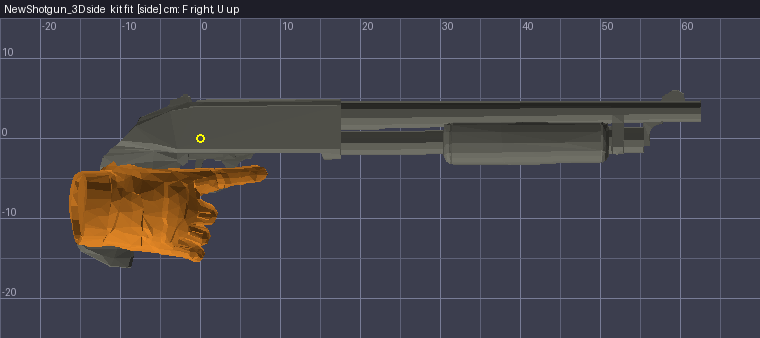
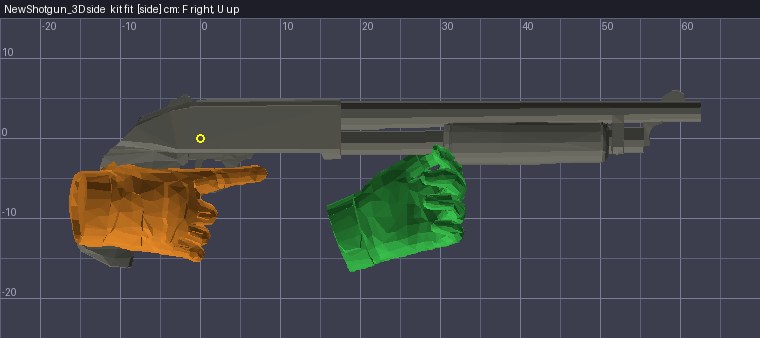
Grip-centred enclosure check, and why these fits are NOT baked
tools/fit_hands.py now fits both hands with the kit's own branches and checks each pose the
way the kit says a doubtful grip is checked -- the cross-section, "the part must sit inside the
hand's curl". support.section() gives the gun's outline at a plane; the hand is sliced at the
same plane and, from the GRIP, eight bearings are tested for hand within 6 cm. 8/8 is a closed
grip; a flat palm laid on top scores about 4, which is the failure the owner caught on the
minigun.

My first version of that check measured the wrong thing and is recorded in the file: it sliced
at F = the fit's SHIFT, which is a translation and not a place, and centred on the whole
cross-section of the receiver -- so it asked whether the hand surrounded the middle of the gun.
Centred on the grip the fit was actually matched against:

    M4A3Pistol_3D   gun hand [-2.93,  0.00, -4.14]  resid 0.50   5/8 at grip F -4.7 L  0.0
    NewShotgun_3D   gun hand [ 0.03,  0.06, -3.97]  resid 0.90   7/8 at grip F -5.0
    PulseRifle_3D   gun hand [ 0.30,  0.42, -2.45]  resid 1.42   7/8 at grip F -4.7
    Smartgun_3D     gun hand [10.03,  8.98,  1.43]  resid 1.41   6/8 at grip F +6.1 L +10.3

Two independent routes agree on the smartgun: the kit's grip box puts its vertical grip at
L +10.3, md3label's grip line at L +11.0.

THE SUPPORT FITS ARE WHAT IS ALREADY SHIPPED. The kit's wrap branch returns the shotgun
[+2.75, -0.09, -2.99] and the pulse rifle [-10.67, -0.09, -10.80] -- the same numbers 93eaf4d
[…]

Changed region(s): [[0.4237, 0.4142, 0.6355, 0.7988]]

diff --git a/tools/fit_hands.py b/tools/fit_hands.py
@@ -50,11 +50,8 @@ guns = _load('guns', KIT + '/tool/hands/guns.py')
 # the pack on ours alone never reached align.fit() -- it looked our classes up in BD22's
 # registry, got None, and died subscripting it. Point them at the one that knows this pack.
 align.guns = guns
-try:
-    import support as _sup
-    _sup.guns = guns
-except Exception:
-    pass
+import support
+support.guns = guns
 
 ROOT = os.path.abspath(os.path.join(os.path.dirname(__file__), '..')).replace('\\', '/')
 
@@ -87,49 +84,112 @@ BOX = {
 }
 
 
+def enclosure(cls, it, hand_items, f, grip, lmax=9.0):
+    """Is the gun INSIDE the hand's curl at the plane F = f?
+
+    The kit's check for a doubtful grip is the cross-section: "the part must sit inside the
+    hand's curl" (HAND_FITTING, and the melee fits' xsec sheets). support.section() already
+    gives the gun's outline at a plane; this slices the hand at the same plane and asks, from
+    the gun's centre, how many of eight bearings have hand within 6 cm. 8/8 is a closed fist
+    round the part; a flat palm laid on top scores about half, which is the failure the owner
+    caught on the minigun.
+    """
+    # `gc` MUST be the grip, not the gun. First version sliced at F = the fit's SHIFT (a
+    # translation, not a place) and centred on the whole cross-section, so it was asking
+    # whether the hand surrounded the middle of the receiver. The caller now passes the grip
+    # point the fit was matched against -- the centroid of align.box over the grip region.
+    g = support.section(cls, f)
+    if not len(g):
+        return None, None
+    gc = np.array(grip[1:], float)
+    H = []
+    for h in hand_items:
+        for a, b, c3, _ in gunview.triangles([h]):
+            a, b, c3 = np.atleast_2d(a), np.atleast_2d(b), np.atleast_2d(c3)
+            for p, q in ((a, b), (b, c3), (c3, a)):
+                s = (p[:, 0] - f) * (q[:, 0] - f)
+                m = s < 0
+                if m.any():
+                    w = (f - p[m, 0]) / (q[m, 0] - p[m, 0])
+                    H.append((p[m] + (q[m] - p[m]) * w[:, None])[:, 1:])
+    if not H:
+        return 0, gc
+    H = np.concatenate(H)
+    hit = 0
+    for k in range(8):
+        th = k * np.pi / 4
+        d = np.array([np.cos(th), np.sin(th)])
+        rel = H - gc
+        along = rel @ d
+        off = np.abs(rel @ np.array([-d[1], d[0]]))
+        if ((along > 0) & (along < 6.0) & (off < 2.5)).any():
+            hit += 1
+    return hit, gc
+
+
 def main():
-    md = os.path.join(ROOT, 'modeldef.pistol.txt')
-    # every modeldef.*.txt in the pack, so one registration covers all four guns
     for name in sorted(os.listdir(ROOT)):
         if name.lower().startswith('modeldef') and os.path.isfile(os.path.join(ROOT, name)):
             guns.add_pack(os.path.join(ROOT, name), ROOT)
     guns.READY.extend(READY)
     handtable.TABLE.update(ROWS)
+    import fitall
 
-    print('%-18s %-22s %-8s %s' % ('gun', 'gun-hand shift F L U', 'residual', 'note'))
-    print('-' * 78)
+    out = os.path.join(ROOT, 'docs', 'renders', 'fit')
+    os.makedirs(out, exist_ok=True)
+    print('%-16s %-24s %-7s %-24s %-7s %s'
+          % ('gun', 'gun hand F L U', 'resid', 'support F L U', 'resid', 'enclosure'))
+    print('-' * 104)
+    res = {}
     for cls, (gs, ss, where) in ROWS.items():
         it = guns.item(cls)
         if not it:
-            print('%-18s MODELDEF block not found -- add_pack could not measure it' % cls)
+            print('%-16s no MODELDEF block' % cls)
             continue
         box = BOX.get(cls, dict(f=(-22, 6), l=(-5, 5), u=(-24, -1)))
-        try:
-            t, err, _ = align.fit(cls, gs, 1, box)
-        except Exception as exc:
-            print('%-18s fit failed: %s' % (cls, exc))
-            continue
+        t, err, _ = align.fit(cls, gs, 1, box)
         t = np.array(t, float) + np.array([0, 0, -1.5])
-        note = 'box %s' % ('per-gun' if cls in BOX else 'kit default')
-        if err > 2.0:
-            note += '  *** residual over 2 cm, do not trust ***'
-        print('%-18s %-22s %-8.2f %s'
-              % (cls, np.round(t, 2), err, note))
-        # OPEN THE SHEET. 000_READ_THIS_FIRST section 6: never trust a tool's silence -- both
-        # owner-caught bugs in the shipped pack were visible in sheets nobody opened.
+
+        sup, serr = None, None
+        if where[0] != 'handle':
+            try:
+                r, _t, t2 = fitall.run(cls)
+                if t2 is not None:
+                    sup, serr = np.array(t2, float), r.get('sup_err', 0.0)
+            except Exception as exc:
+                print('      support fit failed: %s' % exc)
+
         items = [dict(it, color=[120, 120, 110]),
                  dict(path=ROOT + '/models/rsq/hand.md3', frame=5, scale=[-1, 1, 1],
                       off=[0, -24, -10], hook=align.hook_from_shift(t), color=[235, 140, 40])]
-        out = os.path.join(ROOT, 'docs', 'renders', 'fit', 'kitfit_%s_%%s.png' % cls)
-        os.makedirs(os.path.dirname(out), exist_ok=True)
+        if sup is not None:
+            items.append(dict(path=ROOT + '/models/rsq/hand2.md3', frame=2, scale=[-1, 1, 1],
+                              off=[0, -24, -10], hook=align.hook_from_shift(sup),
+                              color=[60, 200, 80]))
+        # the plane through the gun hand's grip
+        # the grip the fit was matched against, in the gun's own frame
+        gpts = align.box(align.surface_points(it), **box)
+        grip = gpts.mean(0) if len(gpts) else np.array([0.0, 0.0, 0.0])
+        gf = float(grip[0])
+        enc, gc = enclosure(cls, it, items[1:2], gf, grip)
+        print('%-16s %-24s %-7.2f %-24s %-7s %s'
+              % (cls, np.round(t, 2), err,
+                 np.round(sup, 2) if sup is not None else 'handle (minigun_fit)',
+                 ('%.2f' % serr) if serr is not None else '-',
+                 ('%d/8 at grip F%+.1f L%+.1f U%+.1f' % (enc, grip[0], grip[1], grip[2])) if enc is not None else 'no section'))
+        res[cls] = dict(gun=t.round(2).tolist(), gun_err=round(err, 2),
+                        sup=sup.round(2).tolist() if sup is not None else None,
+                        enc=enc)
         for kind in ('side', 'front'):
             try:
-                gunview.view(items, out % kind, kind=kind, title='%s %s  kit fit' % (cls, kind))
+                gunview.view(items, os.path.join(out, 'kitfit_%s_%s.png' % (cls, kind)),
+                             kind=kind, title='%s %s  kit fit' % (cls, kind))
             except Exception as exc:
                 print('      %s sheet failed: %s' % (kind, exc))
+    import json
+    json.dump(res, open(os.path.join(ROOT, 'docs', 'kitfit.json'), 'w'), indent=1)
     print()
-    print('Support hands: "same" and "wrap" are fitall.run()\'s own branches; "handle" is')
-    print('minigun_fit.rot_hook, which tools/smartgun_fit.py drives off the measured bar.')
+    print('enclosure 8/8 = the grip is inside the hand all round; a flat palm scores ~4.')
 
 
 if __name__ == '__main__':
